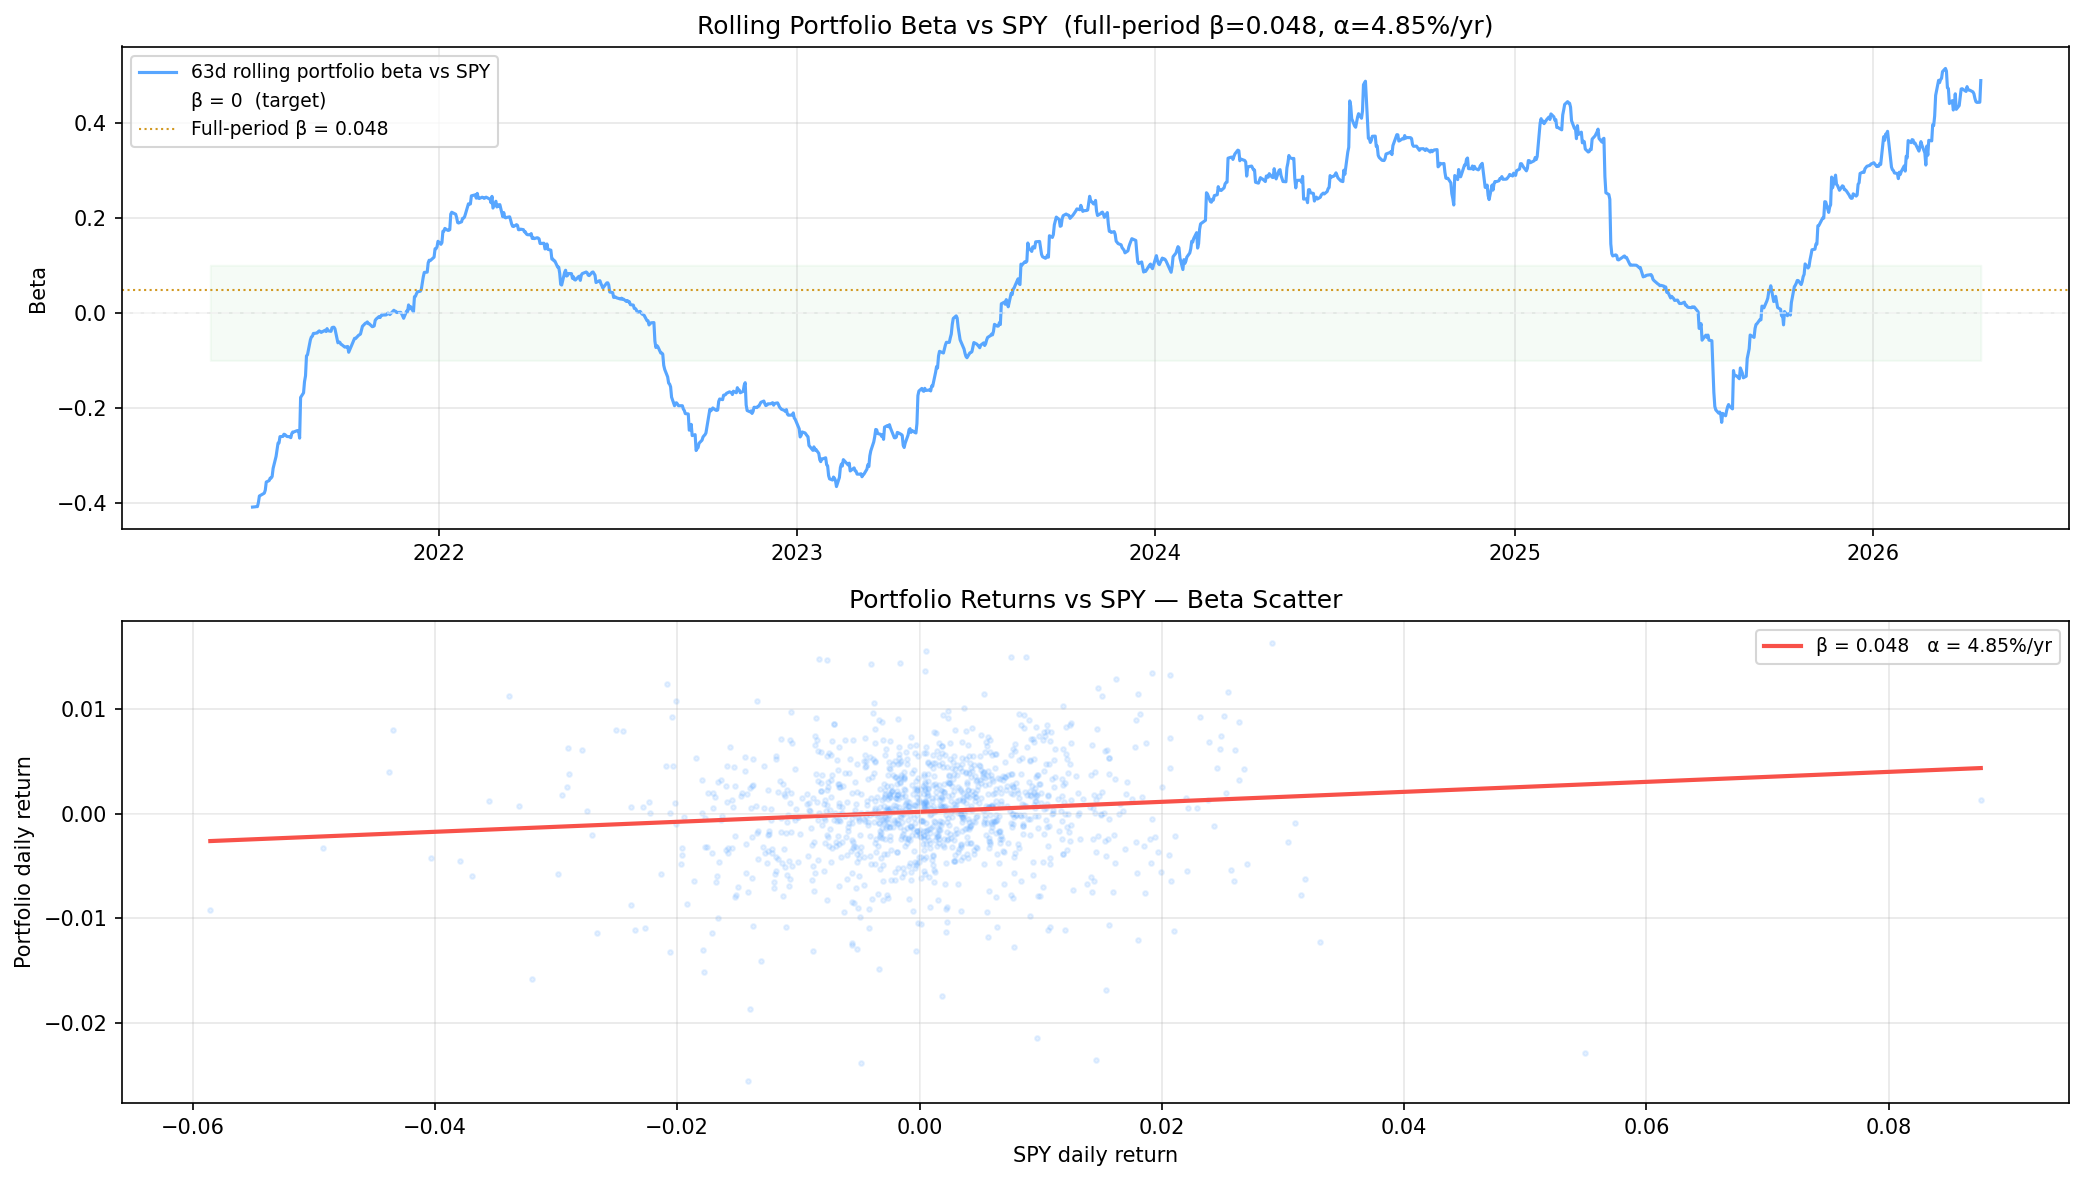
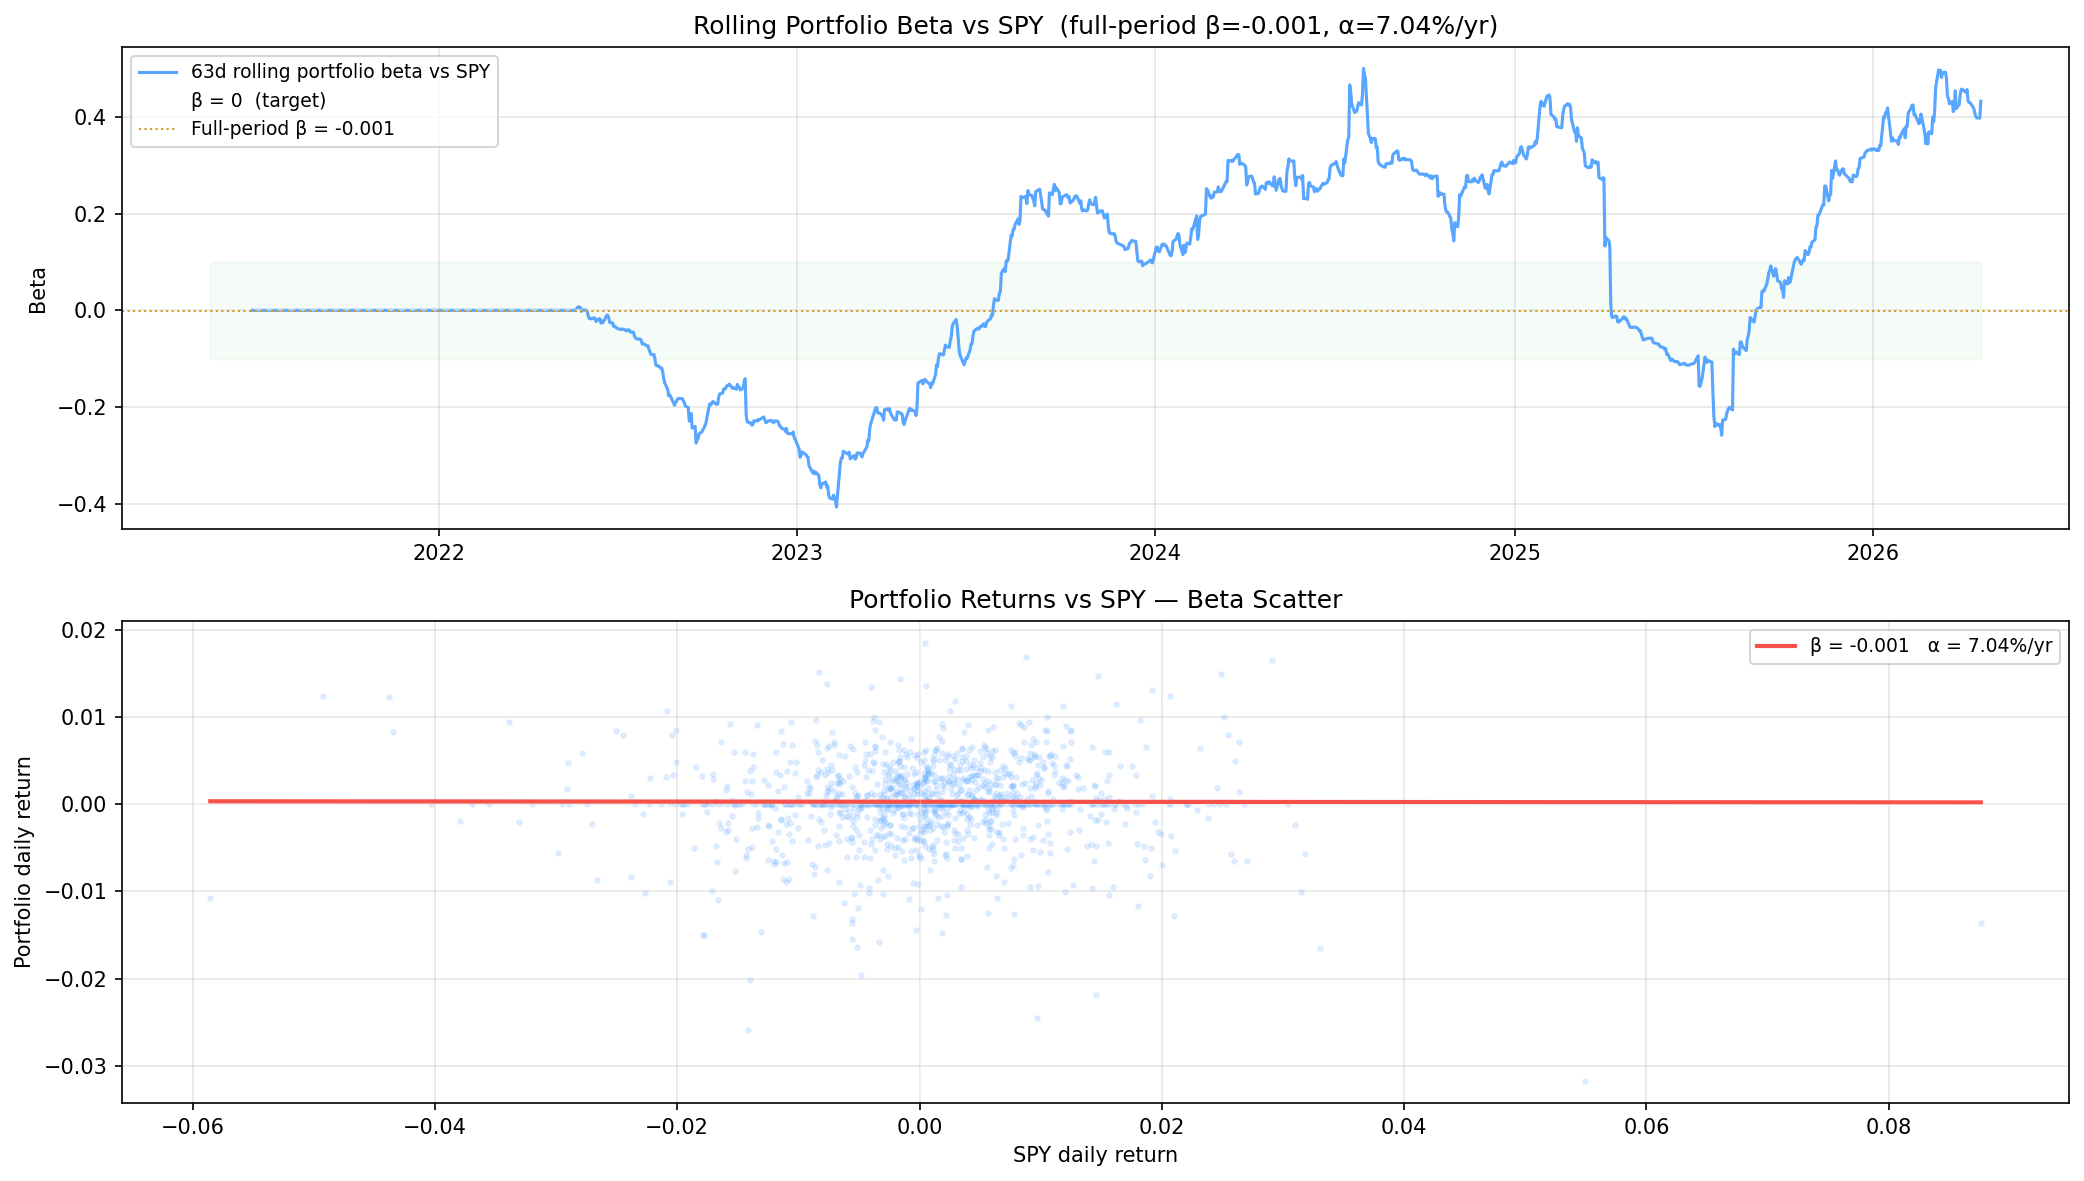
Commit before using cross-sectional momentum on idiosyncratic returns; earlier used naive momentum on idiosyncratic returns.

diff --git a/main.py b/main.py
@@ -62,6 +62,7 @@ from src.factors    import EigenFactorModel
 from src.portfolio  import (
     build_signal,
     momentum_signal,
+    cross_sectional_momentum_signal,
     combine_signals,
     long_short_portfolio,
     Backtester,
@@ -122,9 +123,8 @@ print(f"Final dataset : {returns.shape[0]} days x {returns.shape[1]} stocks\n")
 # SPY prices are used to estimate rolling beta for each stock.
 # Cached separately to data/spy_prices.parquet.
 spy_prices = get_spy(start=START_DATE, end=END_DATE)
-spy_returns = winsorize_returns(
-    compute_returns(spy_prices, log=False)
-)
+spy_returns = compute_returns(spy_prices, log=False)
+spy_returns = winsorize_returns(spy_returns)
 # .squeeze() ensures we have a Series, not a single-column DataFrame.
 # This matters because rolling_beta() and market_neutral_returns() both
 # call .mul(mkt, axis=0), which requires mkt to be a Series.
@@ -313,12 +313,8 @@ mr_train = build_signal(idio_train_df, lookback=MR_LOOKBACK, decay_halflife=MR_D
 # Reason: momentum captures persistent price trends, including sector trends.
 # Removing the market or sector component would strip out the very trends
 # the signal is trying to capture.
-mom_train = momentum_signal(
-    train_ret_aligned,   # <-- CHANGE HERE
-    fast_window=MOM_FAST,
-    slow_window=MOM_SLOW,
-    skip_days=5,
-)
+mom_train = cross_sectional_momentum_signal(
+    train_ret_aligned)
 
 # ── Dynamic blending ───────────────────────────────────────────────────────────
 # Instead of the fixed 30/70 blend in combine_signals(), we dynamically
@@ -453,8 +449,7 @@ mr_test = build_signal(idio_test_df, lookback=MR_LOOKBACK, decay_halflife=MR_DEC
 # Momentum signal: computed on FULL history (raw returns), sliced to test dates.
 # KEY: we use the full `returns` DataFrame (all dates), then slice.
 # Using only test_returns would give all-NaN because MOM_SLOW=252d > 123d test window.
-mom_test = momentum_signal(returns, fast_window=MOM_FAST,
-                            slow_window=MOM_SLOW, skip_days=5)
+mom_test = cross_sectional_momentum_signal(returns)
 mom_test = mom_test.loc[test_returns.index]   # slice to test dates
 
 # Dynamic blending for test period
@@ -515,11 +510,8 @@ def make_signal(idio_df: pd.DataFrame, full_ret: pd.DataFrame) -> pd.DataFrame:
     mr = build_signal(idio_df, lookback=MR_LOOKBACK, decay_halflife=MR_DECAY)
 
     # Momentum built on full raw returns history, then sliced to test window
-    mom = momentum_signal(
+    mom = cross_sectional_momentum_signal(
         full_ret,
-        fast_window=MOM_FAST,
-        slow_window=MOM_SLOW,
-        skip_days=5,
     )  # align to test window
 
     # Dynamic weighting (same logic as Steps 7 and 10)

diff --git a/src/portfolio.py b/src/portfolio.py
@@ -96,6 +96,12 @@ def build_signal(
     smoothed = decay_signal(ranked, halflife=decay_halflife)
     return rank_signal(smoothed.fillna(0))   # fillna preserves cross-section width
 
+def cross_sectional_momentum_signal(returns, lookback=252, skip=5):
+    """
+    Cross sectional momentum signal aka Carhart momentum
+    """
+    past = returns.shift(skip).rolling(lookback).sum()
+    return rank_signal(past)
 
 def momentum_signal(
     returns: pd.DataFrame,
